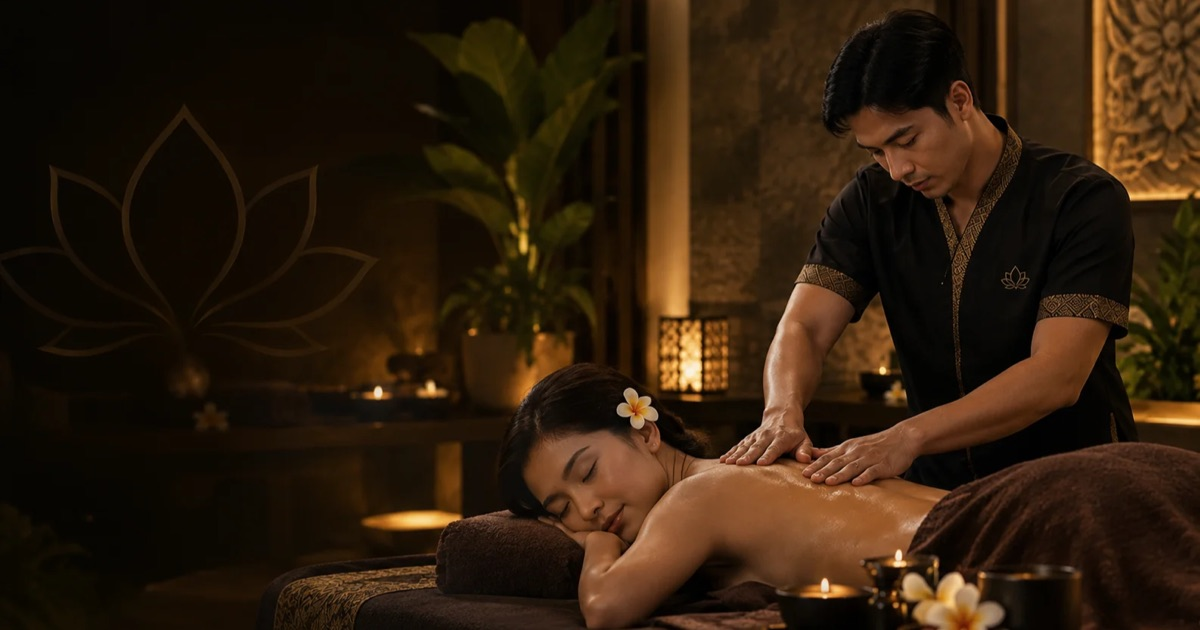
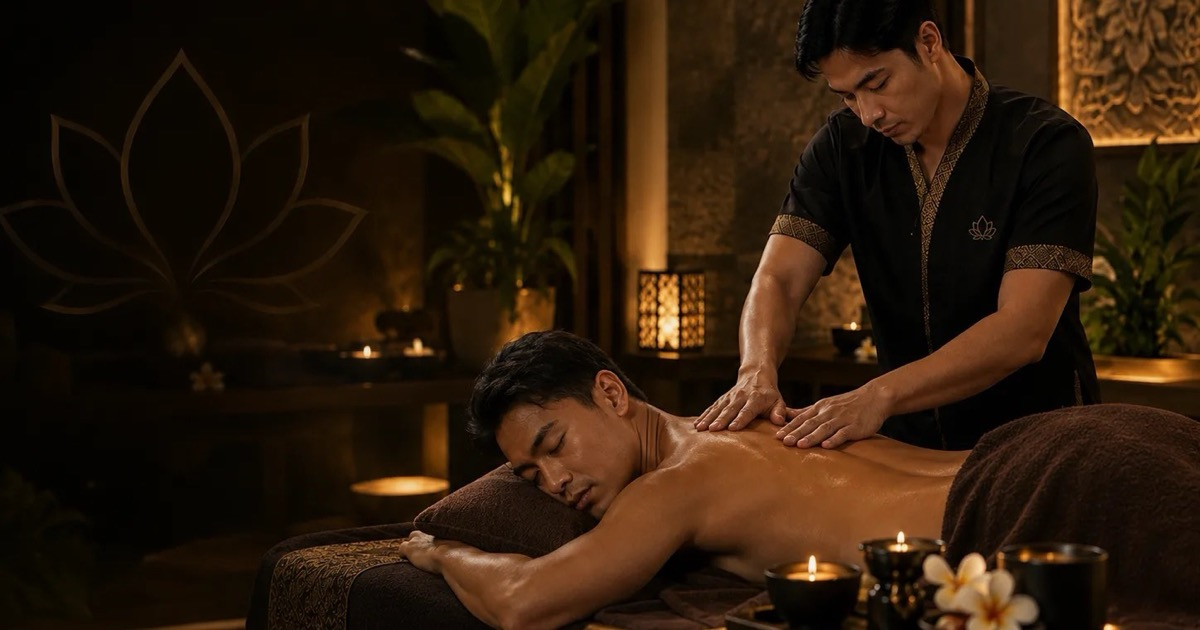
fix: update og-glorya-v2.jpg content and og/twitter image references
Previous commit renamed the file but left stale content and dangling
references to the old og-glorya.jpg filename.

diff --git a/index.html b/index.html
@@ -25,14 +25,14 @@
   <meta property="og:url" content="https://gloryamassage.com/">
   <meta property="og:site_name" content="Glorya Massage">
   <meta property="og:locale" content="id_ID">
-  <meta property="og:image" content="https://gloryamassage.com/assets/images/og-glorya.jpg">
+  <meta property="og:image" content="https://gloryamassage.com/assets/images/og-glorya-v2.jpg">
   <meta property="og:image:width" content="1200">
   <meta property="og:image:height" content="630">
   <meta property="og:image:alt" content="Glorya Massage - Jasa Pijat Panggilan Yogyakarta">
   <meta name="twitter:card" content="summary_large_image">
   <meta name="twitter:title" content="Jasa Pijat Panggilan Jogja 24 Jam | Glorya Massage">
   <meta name="twitter:description" content="Massage panggilan 24 jam dengan pilihan terapis pria dan wanita serta gratis transport di seluruh Yogyakarta.">
-  <meta name="twitter:image" content="https://gloryamassage.com/assets/images/og-glorya.jpg">
+  <meta name="twitter:image" content="https://gloryamassage.com/assets/images/og-glorya-v2.jpg">
 
   <link rel="preconnect" href="https://fonts.googleapis.com">
   <link rel="preconnect" href="https://fonts.gstatic.com" crossorigin>
